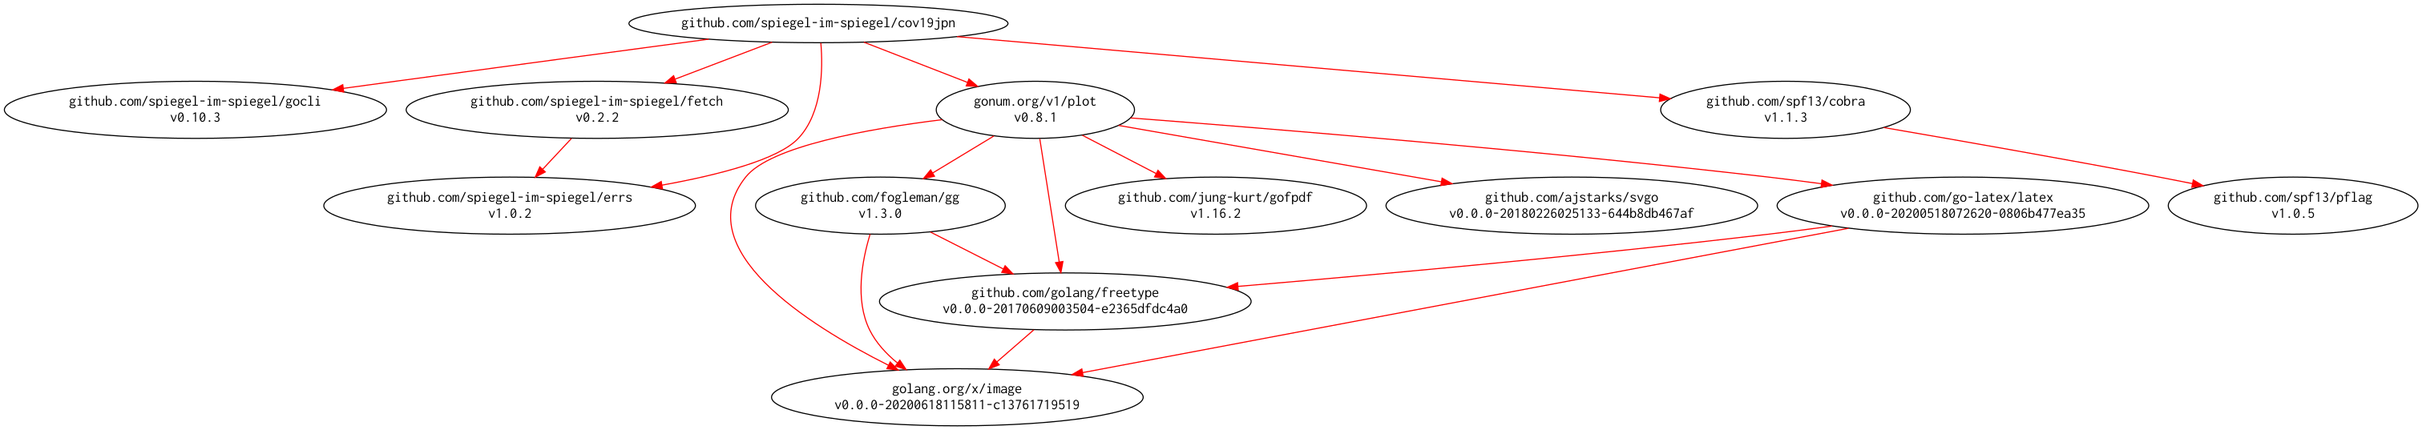
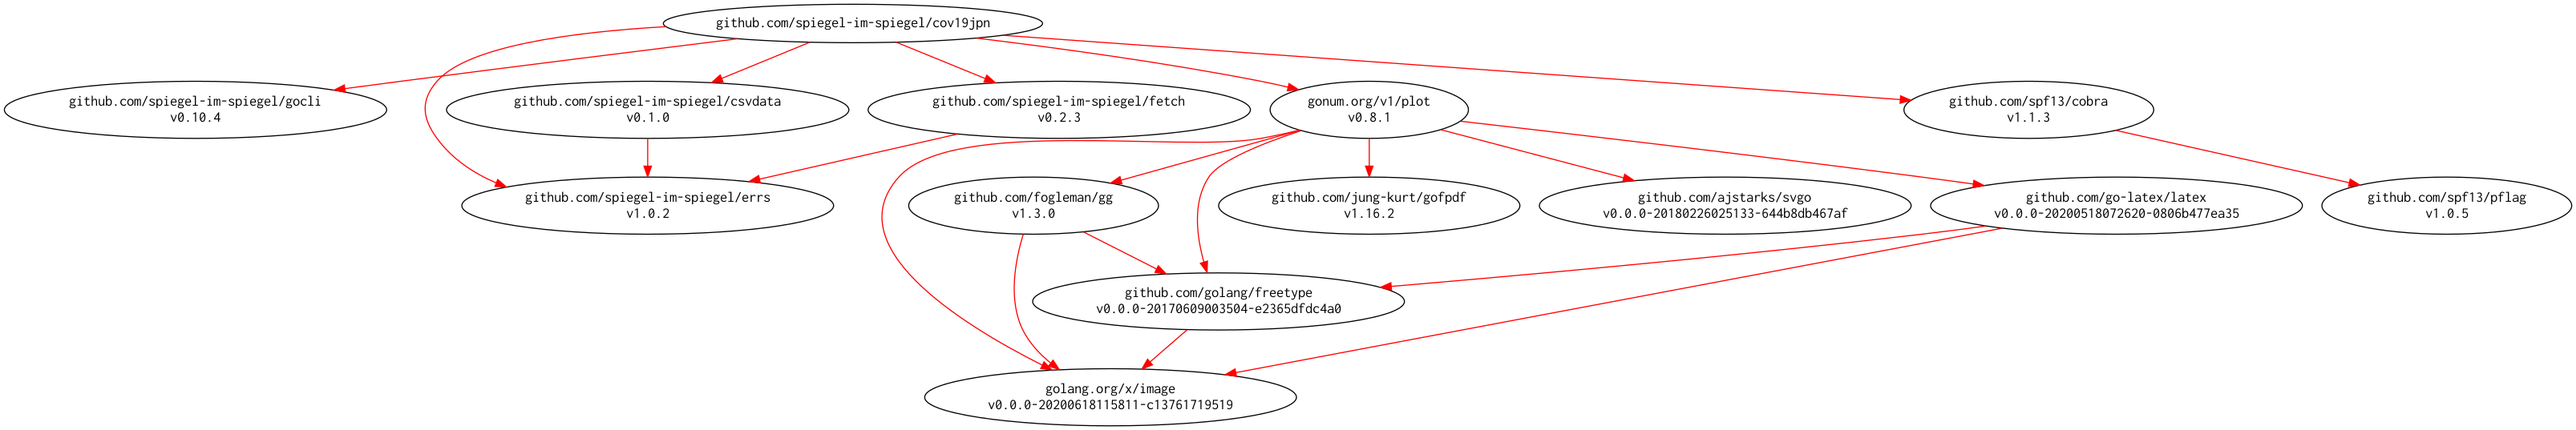
Add external csvdata package

diff --git a/entity/entity_test.go b/entity/entity_test.go
@@ -6,10 +6,10 @@ import (
 	"strings"
 	"testing"
 
-	"github.com/spiegel-im-spiegel/cov19jpn/csvdata"
 	"github.com/spiegel-im-spiegel/cov19jpn/ecode"
 	"github.com/spiegel-im-spiegel/cov19jpn/filter"
 	"github.com/spiegel-im-spiegel/cov19jpn/values/date"
+	"github.com/spiegel-im-spiegel/csvdata"
 )
 
 const (
@@ -101,14 +101,13 @@ func TestEntity(t *testing.T) {
 	}
 
 	for _, tc := range testCases {
-		r := csvdata.New(strings.NewReader(tc.input), CSVCols, true)
+		r := csvdata.New(strings.NewReader(tc.input), true).WithFieldsPerRecord(CSVCols)
 		list := NewList(nil)
 		for {
-			elms, err := r.Next()
-			if err != nil {
+			if err := r.Next(); err != nil {
 				break
 			}
-			e, err := Decode(elms)
+			e, err := Decode(r.Row())
 			if errors.Is(err, ecode.ErrInvalidRecord) {
 				t.Errorf("Decode() is \"%v\", want nil.", err)
 				continue

diff --git a/fetch/import.go b/fetch/import.go
@@ -3,25 +3,24 @@ package fetch
 import (
 	"io"
 
-	"github.com/spiegel-im-spiegel/cov19jpn/csvdata"
 	"github.com/spiegel-im-spiegel/cov19jpn/entity"
 	"github.com/spiegel-im-spiegel/cov19jpn/filter"
+	"github.com/spiegel-im-spiegel/csvdata"
 	"github.com/spiegel-im-spiegel/errs"
 )
 
 //Import function returns slice of entity.Entity
 func Import(r io.Reader, f *filter.Filter) ([]*entity.Entity, error) {
 	list := entity.NewList(nil)
-	cr := csvdata.New(r, entity.CSVCols, true)
+	cr := csvdata.New(r, true).WithFieldsPerRecord(entity.CSVCols)
 	for {
-		elms, err := cr.Next()
-		if err != nil {
+		if err := cr.Next(); err != nil {
 			if errs.Is(err, io.EOF) {
 				break
 			}
 			return nil, errs.Wrap(err)
 		}
-		e, err := entity.Decode(elms)
+		e, err := entity.Decode(cr.Row())
 		if err != nil {
 			return nil, errs.Wrap(err)
 		}
